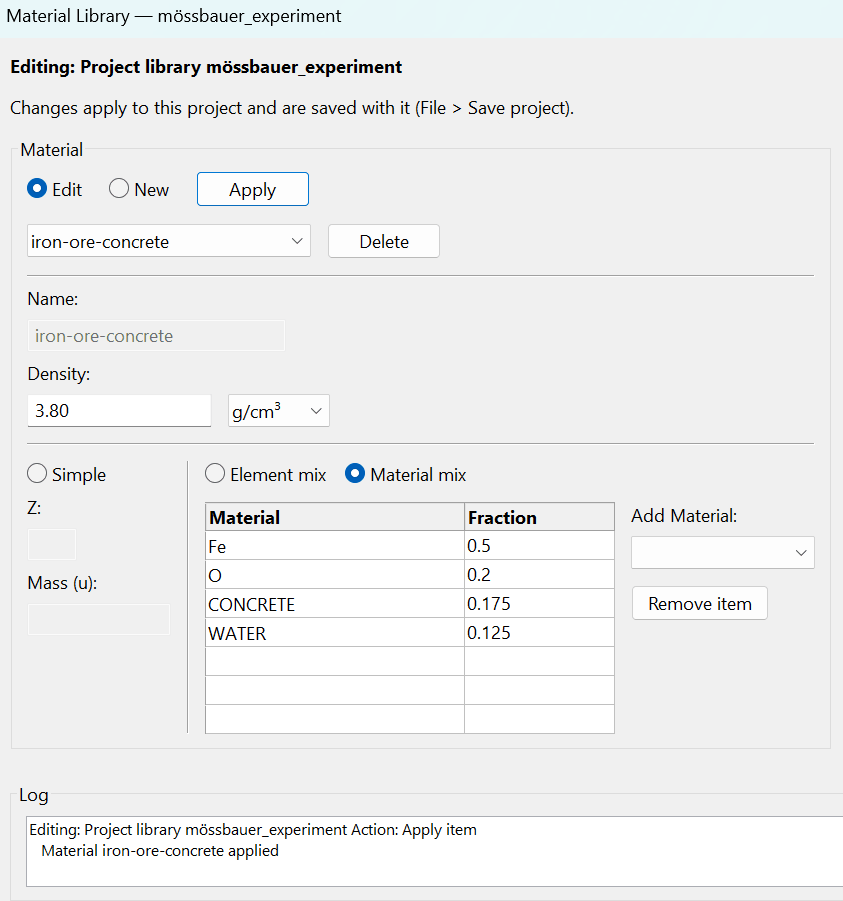
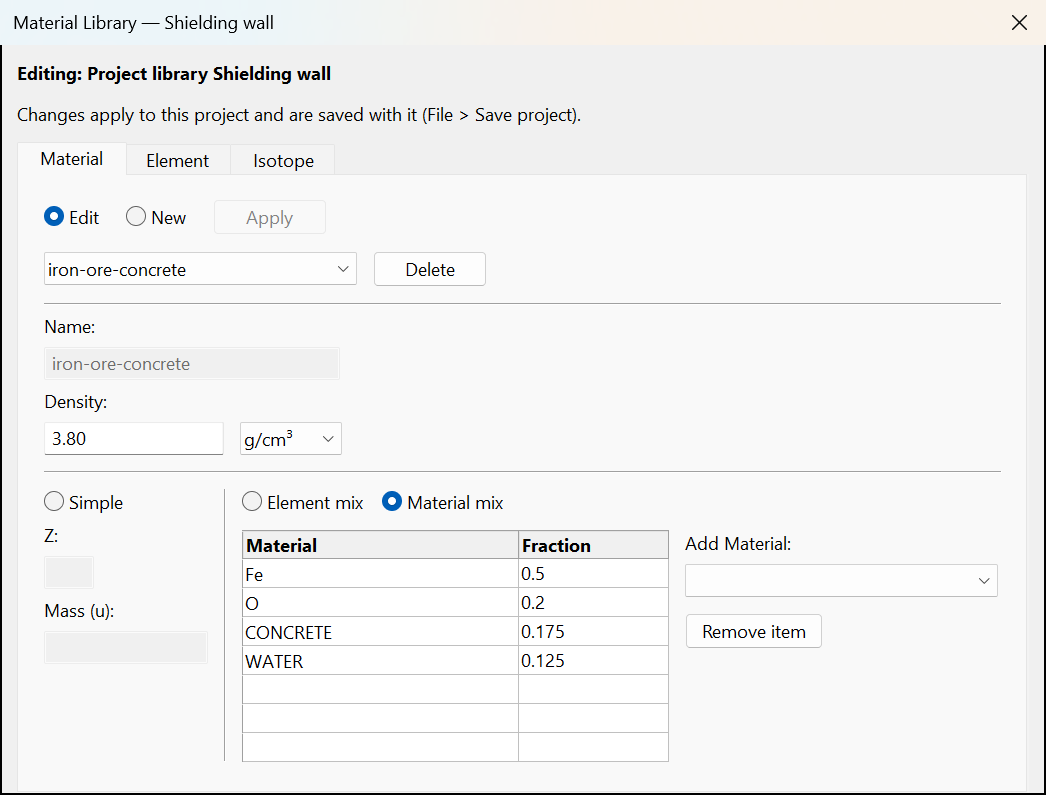
Material editor screenshot of RadMap 3.0
- The editor's tabs (Material, Element, Isotope) replace the log; same material
  - index.html: the image's new size

diff --git a/index.html b/index.html
@@ -460,7 +460,7 @@
         <figcaption>A shielded Mössbauer setup: lead and steel shields, a collimator and a detector, with six dose maps around it. The selected map shows its dose rate with its uncertainty.</figcaption>
       </figure>
       <figure class="gallery-shot" role="tabpanel" id="gallery-shot-2" aria-labelledby="gallery-tab-2" hidden>
-        <img src="./images/radmap-materials.png" width="843" height="901" loading="lazy" decoding="async"
+        <img src="./images/radmap-materials.png" width="1046" height="795" loading="lazy" decoding="async"
              alt="The material editor showing iron-ore-concrete, density 3.80 g/cm³, as a material mix by mass fraction: Fe 0.5, O 0.2, CONCRETE 0.175 and WATER 0.125.">
         <figcaption>A material mixed from other materials by mass fraction: concrete with iron ore.</figcaption>
       </figure>
